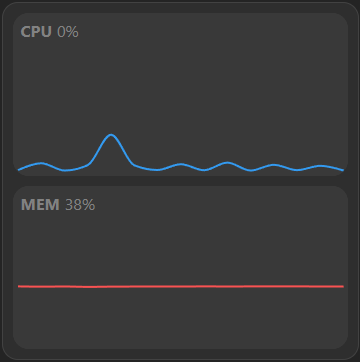
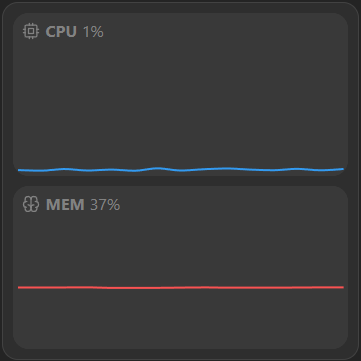
docs(system-resources-widget): add label display mode option (#411)

diff --git a/docs/widgets/system-resources/index.ts b/docs/widgets/system-resources/index.ts
@@ -17,6 +17,15 @@ export const systemResourcesWidget: WidgetDefinition = {
         },
         defaultValue: 'CPU, Memory, Network',
       },
+      {
+        name: 'Label display mode',
+        description: 'Select how the graphs should be labeled',
+        values: {
+          type: 'select',
+          options: ['Show text with icon', 'Show only text', 'Show only icon', 'Hide label'],
+        },
+        defaultValue: 'Show text with icon',
+      },
     ],
   },
 };
